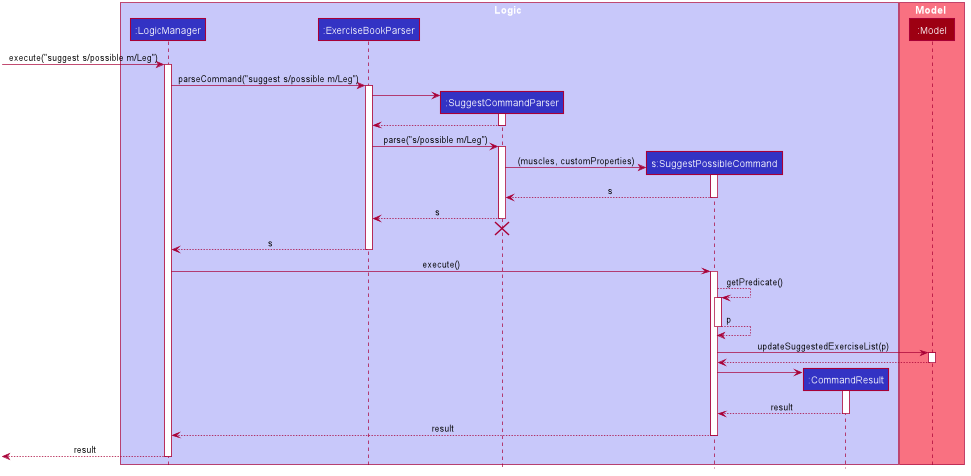
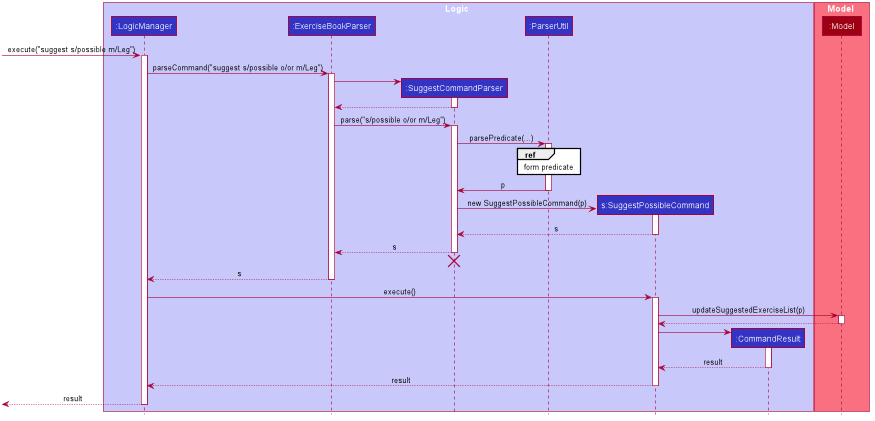
Fix suggest possible command to allow operational type to be optional

diff --git a/src/main/java/seedu/exercise/logic/parser/SuggestCommandParser.java b/src/main/java/seedu/exercise/logic/parser/SuggestCommandParser.java
@@ -11,7 +11,9 @@ import java.util.ArrayList;
 import java.util.Map;
 import java.util.Set;
 import java.util.function.Predicate;
+import java.util.logging.Logger;
 
+import seedu.exercise.commons.core.LogsCenter;
 import seedu.exercise.logic.commands.SuggestBasicCommand;
 import seedu.exercise.logic.commands.SuggestCommand;
 import seedu.exercise.logic.commands.SuggestPossibleCommand;
@@ -27,6 +29,7 @@ public class SuggestCommandParser implements Parser<SuggestCommand> {
 
     public static final String SUGGEST_TYPE_BASIC = "basic";
     public static final String SUGGEST_TYPE_POSSIBLE = "possible";
+    private static final Logger logger = LogsCenter.getLogger(SuggestCommandParser.class);
 
     /**
      * Parses the given {@code String} of arguments in the context of the SuggestCommand
@@ -69,17 +72,34 @@ public class SuggestCommandParser implements Parser<SuggestCommand> {
      * Parses arguments and returns SuggestPossibleCommand for execution
      */
     private static SuggestCommand parsePossible(ArgumentMultimap argMultimap) throws ParseException {
-        if ((!argMultimap.arePrefixesPresent(PREFIX_OPERATION_TYPE) || !argMultimap.getPreamble().isEmpty())) {
-            throw new ParseException(String.format(MESSAGE_INVALID_COMMAND_FORMAT,
-                    SuggestCommand.MESSAGE_USAGE));
-        }
-        boolean operationType = ParserUtil.parseOperationType(argMultimap.getValue(PREFIX_OPERATION_TYPE).get());
-
         Set<Muscle> muscles = ParserUtil.parseMuscles(argMultimap.getAllValues(PREFIX_MUSCLE));
         Map<String, String> customPropertiesMap =
                 ParserUtil.parseCustomProperties(argMultimap.getAllCustomProperties());
-        Predicate<Exercise> predicate = parsePredicate(muscles, customPropertiesMap, operationType);
+        int numberOfPredicateTags = getNumberOfPredicateTags(muscles, customPropertiesMap);
+
+        if (numberOfPredicateTags == 0) {
+            logger.info("Invalid suggest possible command - no predicate tags");
+            throw new ParseException(String.format(MESSAGE_INVALID_COMMAND_FORMAT, SuggestCommand.MESSAGE_USAGE));
+        }
+
+        if (numberOfPredicateTags > 1) {
+            if ((!argMultimap.arePrefixesPresent(PREFIX_OPERATION_TYPE) || !argMultimap.getPreamble().isEmpty())) {
+                logger.info("Invalid suggest possible command - no operation type");
+                throw new ParseException(String.format(MESSAGE_INVALID_COMMAND_FORMAT, SuggestCommand.MESSAGE_USAGE));
+            }
+        }
+
+        if (argMultimap.arePrefixesPresent(PREFIX_OPERATION_TYPE)) {
+            boolean operationType = ParserUtil.parseOperationType(argMultimap.getValue(PREFIX_OPERATION_TYPE).get());
+            Predicate<Exercise> predicate = parsePredicate(muscles, customPropertiesMap, operationType);
+            return new SuggestPossibleCommand(predicate);
+        }
+
+        Predicate<Exercise> predicate = parsePredicate(muscles, customPropertiesMap, true);
         return new SuggestPossibleCommand(predicate);
     }
 
+    private static int getNumberOfPredicateTags(Set<Muscle> muscles, Map<String, String> customPropertiesMap) {
+        return muscles.size() + customPropertiesMap.size();
+    }
 }

diff --git a/src/test/java/seedu/exercise/logic/parser/SuggestPossibleCommandParserTest.java b/src/test/java/seedu/exercise/logic/parser/SuggestPossibleCommandParserTest.java
@@ -31,8 +31,9 @@ public class SuggestPossibleCommandParserTest {
     public void parsePossible_compulsoryFieldsMissing_failure() {
         String expectedMessage = String.format(MESSAGE_INVALID_COMMAND_FORMAT, SuggestCommand.MESSAGE_USAGE);
 
-        //no operation type
-        assertParseFailure(parser, DESC_SUGGEST_TYPE_POSSIBLE + MUSCLE_DESC_AEROBICS, expectedMessage);
+        //no operation type for more than one predicate tag
+        assertParseFailure(parser, DESC_SUGGEST_TYPE_POSSIBLE + MUSCLE_DESC_AEROBICS + MUSCLE_DESC_BASKETBALL,
+                expectedMessage);
     }
 
     @Test
@@ -47,6 +48,16 @@ public class SuggestPossibleCommandParserTest {
         assertParseSuccess(parser, DESC_SUGGEST_TYPE_POSSIBLE + DESC_OPERATION_TYPE_AND
             + MUSCLE_DESC_AEROBICS + MUSCLE_DESC_BASKETBALL,
             new SuggestPossibleCommand(exercisePredicateMuscleAdd));
+    }
+
+    @Test
+    public void parsePossible_optionalOperationTypeMissing_success() {
+        Set<Muscle> targetMuscles = new HashSet<>();
+        targetMuscles.add(new Muscle(VALID_MUSCLE_AEROBICS));
+        BasePropertyPredicate predicateOneMuscleAnd = predicateShowExercisesWithMuscle(targetMuscles, true);
+        Predicate<Exercise> exercisePredicateOneMuscleAnd = new ExercisePredicate(true, predicateOneMuscleAnd);
+        assertParseSuccess(parser, DESC_SUGGEST_TYPE_POSSIBLE + MUSCLE_DESC_AEROBICS,
+                new SuggestPossibleCommand(exercisePredicateOneMuscleAnd));
     }
 
     @Test

diff --git a/src/main/java/seedu/exercise/logic/parser/ParserUtil.java b/src/main/java/seedu/exercise/logic/parser/ParserUtil.java
@@ -334,8 +334,7 @@ public class ParserUtil {
     public static String parseSuggestType(String suggestType) throws ParseException {
         requireNonNull(suggestType);
         String trimmedSuggestType = suggestType.trim();
-        if (!trimmedSuggestType.equals(SUGGEST_TYPE_BASIC)
-            && !trimmedSuggestType.equals(SUGGEST_TYPE_POSSIBLE)) {
+        if (!trimmedSuggestType.equals(SUGGEST_TYPE_BASIC) && !trimmedSuggestType.equals(SUGGEST_TYPE_POSSIBLE)) {
             throw new ParseException(
                 String.format(MESSAGE_INVALID_TYPE, "Suggest type", SUGGEST_TYPE_BASIC, SUGGEST_TYPE_POSSIBLE));
         }

diff --git a/src/main/java/seedu/exercise/logic/parser/predicate/ExercisePredicate.java b/src/main/java/seedu/exercise/logic/parser/predicate/ExercisePredicate.java
@@ -1,5 +1,7 @@
 package seedu.exercise.logic.parser.predicate;
 
+import static java.util.Objects.requireNonNull;
+
 import java.util.ArrayList;
 import java.util.Arrays;
 import java.util.List;
@@ -16,6 +18,7 @@ public class ExercisePredicate implements Predicate<Exercise> {
 
     @SafeVarargs
     public ExercisePredicate(boolean isStrict, BasePropertyPredicate... predicates) {
+        requireNonNull(predicates);
         this.isStrict = isStrict;
         this.predicates = Arrays.asList(predicates);
     }
